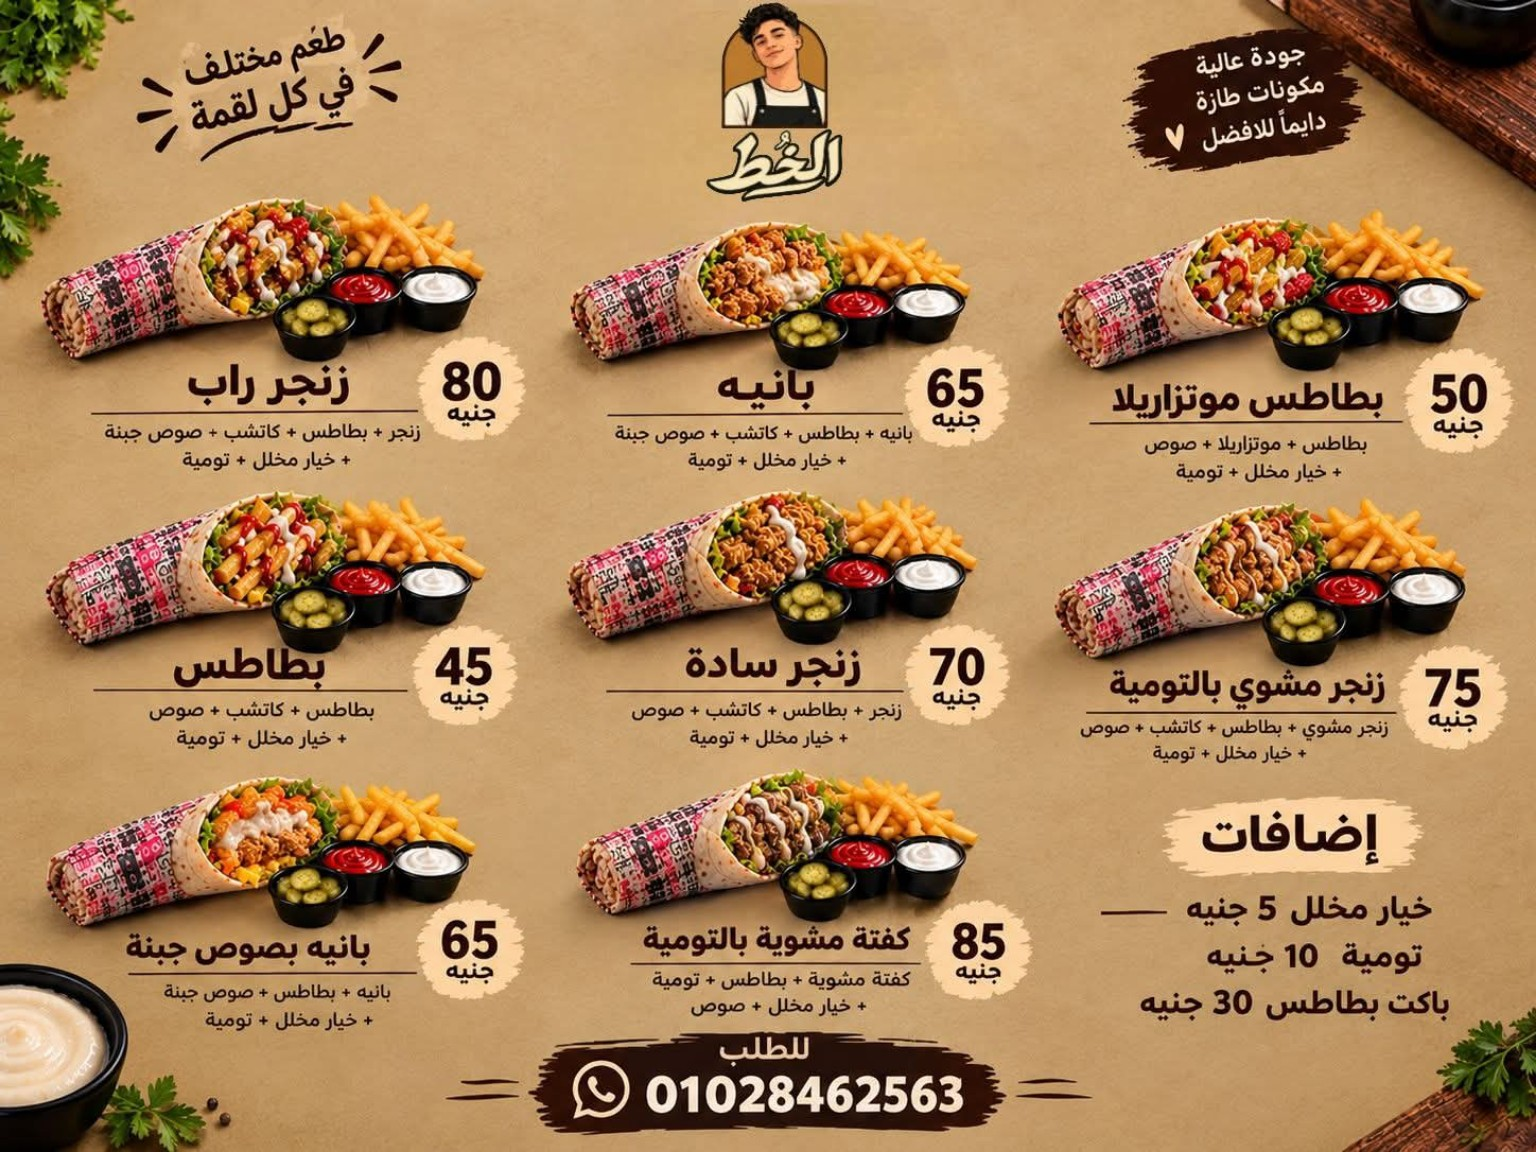
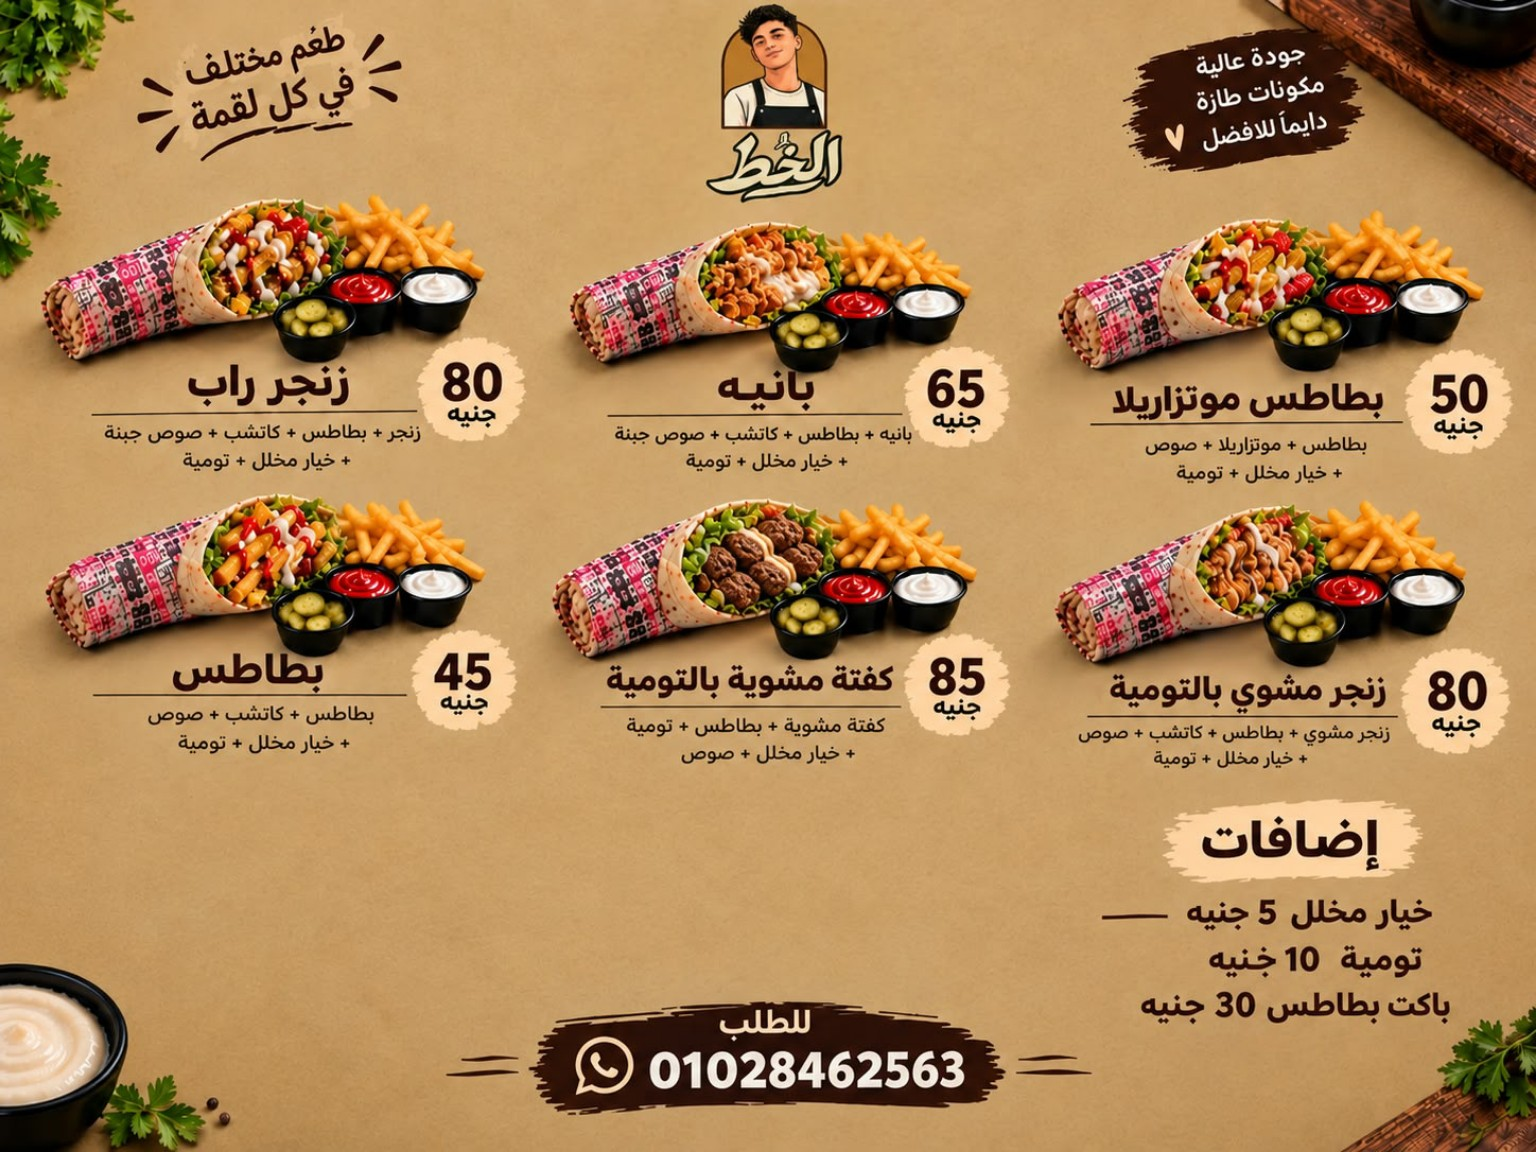
Add files via upload

diff --git a/index.html b/index.html
@@ -39,7 +39,7 @@
 </div></section>
 <section class="section" id="menu"><div class="container">
  <div class="section-head"><div><div class="label" data-ar="اختار على مزاجك" data-en="MADE FOR YOUR CRAVINGS">اختار على مزاجك</div><h2 data-ar="المنيو بتاعنا 🍟" data-en="Our Menu 🍟">المنيو بتاعنا 🍟</h2><p data-ar="كل اللي بتحبه، في مكان واحد." data-en="All your favourites, in one place.">كل اللي بتحبه، في مكان واحد.</p></div><button class="pillbtn" id="openCart2">🛒 <span data-ar="راجع طلبك" data-en="Review order">راجع طلبك</span></button></div>
- <div class="menu-tools"><input class="search" id="search" placeholder="🔎 دور على أكلة..." aria-label="Search menu"><div id="filters" style="display:flex;gap:8px;flex-wrap:wrap"><button class="filter active" data-cat="all" data-ar="الكل" data-en="All">الكل</button><button class="filter" data-cat="fries" data-ar="بطاطس" data-en="Fries">بطاطس</button><button class="filter" data-cat="renger" data-ar="رَنجر" data-en="Renger">رَنجر</button><button class="filter" data-cat="banih" data-ar="بانيه" data-en="Paneh">بانيه</button><button class="filter" data-cat="meat" data-ar="كفتة" data-en="Kofta">كفتة</button></div></div>
+ <div class="menu-tools"><input class="search" id="search" placeholder="🔎 دور على أكلة..." aria-label="Search menu"><div id="filters" style="display:flex;gap:8px;flex-wrap:wrap"><button class="filter active" data-cat="all" data-ar="الكل" data-en="All">الكل</button><button class="filter" data-cat="fries" data-ar="بطاطس" data-en="Fries">بطاطس</button><button class="filter" data-cat="renger" data-ar="رنجر" data-en="Renger">رنجر</button><button class="filter" data-cat="banih" data-ar="بانيه" data-en="Paneh">بانيه</button><button class="filter" data-cat="meat" data-ar="كفتة" data-en="Kofta">كفتة</button></div></div>
  <div class="products" id="products"></div>
 </div></section>
 <section class="section" id="signature"><div class="container"><div class="menu-image"><div><div class="label" data-ar="شوفها بعينك" data-en="TAKE A CLOSER LOOK">شوفها بعينك</div><h3 data-ar="المنيو الأصلي" data-en="The original menu">المنيو الأصلي</h3><p data-ar="راجع صورة المنيو اللي بننزلها على صفحتنا، ولو محتاج تسأل عن أي إضافة أو تفاصيل قبل الطلب، كلمنا على واتساب." data-en="Take a look at our menu artwork. Have a question about an item or an extra? Message us on WhatsApp before ordering.">راجع صورة المنيو اللي بننزلها على صفحتنا، ولو محتاج تسأل عن أي إضافة أو تفاصيل قبل الطلب، كلمنا على واتساب.</p><a class="pillbtn primary" href="https://wa.me/201028462563" target="_blank" rel="noopener" data-ar="اسألنا على واتساب ↗" data-en="Ask us on WhatsApp ↗">اسألنا على واتساب ↗</a></div><img src="menu.jpg" alt="صورة منيو الخط فود"></div></div></section>
@@ -56,11 +56,8 @@ const menu=[
 {id:"motz",cat:"fries",ar:"بطاطس موتزاريلا",en:"Mozzarella Fries",price:50,emoji:"🍟",descAr:"بطاطس + موتزاريلا + صوص + خيار مخلل + تومية",descEn:"Fries, mozzarella, sauce, pickles and garlic dip",tag:""},
 {id:"potato",cat:"fries",ar:"بطاطس",en:"Classic Fries",price:45,emoji:"🍟",descAr:"بطاطس + كاتشب + صوص + خيار مخلل + تومية",descEn:"Fries, ketchup, sauce, pickles and garlic dip",tag:""},
 {id:"banih",cat:"banih",ar:"بانيه",en:"Paneh",price:65,emoji:"🌯",descAr:"بانيه + بطاطس + كاتشب + صوص جبنة + خيار مخلل + تومية",descEn:"Breaded chicken, fries, ketchup, cheese sauce, pickles and garlic dip",tag:"popular"},
-{id:"banihcheese",cat:"banih",ar:"بانيه بصوص جبنة",en:"Paneh with Cheese Sauce",price:65,emoji:"🧀",descAr:"بانيه + بطاطس + صوص جبنة + خيار مخلل + تومية",descEn:"Paneh, fries, cheese sauce, pickles and garlic dip",tag:""},
-{id:"renger",cat:"renger",ar:"رَنجر سادة",en:"Classic Renger",price:70,emoji:"🌯",descAr:"رَنجر + بطاطس + كاتشب + صوص + خيار مخلل + تومية",descEn:"Renger, fries, ketchup, sauce, pickles and garlic dip",tag:""},
-{id:"rengergarlic",cat:"renger",ar:"رَنجر مشوي بالتومية",en:"Grilled Renger with Garlic",price:75,emoji:"🥙",descAr:"رَنجر مشوي + بطاطس + كاتشب + صوص + خيار مخلل + تومية",descEn:"Grilled renger, fries, ketchup, sauce, pickles and garlic dip",tag:""},
-{id:"rengerwrap",cat:"renger",ar:"رَنجر راب",en:"Renger Wrap",price:80,emoji:"🌯",descAr:"رَنجر + بطاطس + كاتشب + صوص جبنة + خيار مخلل + تومية",descEn:"Renger wrap, fries, ketchup, cheese sauce, pickles and garlic dip",tag:"popular"},
-{id:"banihwrap",cat:"banih",ar:"بانيه راب",en:"Paneh Wrap",price:65,emoji:"🌯",descAr:"بانيه + بطاطس + كاتشب + صوص جبنة + خيار مخلل + تومية",descEn:"Paneh wrap, fries, ketchup, cheese sauce, pickles and garlic dip",tag:""},
+{id:"rengergarlic",cat:"renger",ar:"رنجر مشوي بالتومية",en:"Grilled Renger with Garlic",price:80,emoji:"🌯",descAr:"رنجر مشوي + بطاطس + كاتشب + صوص + خيار مخلل + تومية",descEn:"Grilled renger, fries, ketchup, sauce, pickles and garlic dip",tag:""},
+{id:"rengerwrap",cat:"renger",ar:"رنجر راب",en:"Renger Wrap",price:80,emoji:"🌯",descAr:"رنجر + بطاطس + كاتشب + صوص جبنة + خيار مخلل + تومية",descEn:"Renger wrap, fries, ketchup, cheese sauce, pickles and garlic dip",tag:"popular"},
 {id:"kofta",cat:"meat",ar:"كفتة مشوية بالتومية",en:"Grilled Kofta with Garlic",price:85,emoji:"🥙",descAr:"كفتة مشوية + بطاطس + تومية + خيار مخلل + صوص",descEn:"Grilled kofta, fries, garlic dip, pickles and sauce",tag:"popular"}
 ];
 let lang="ar",theme="light",activeCat="all",cart={};
